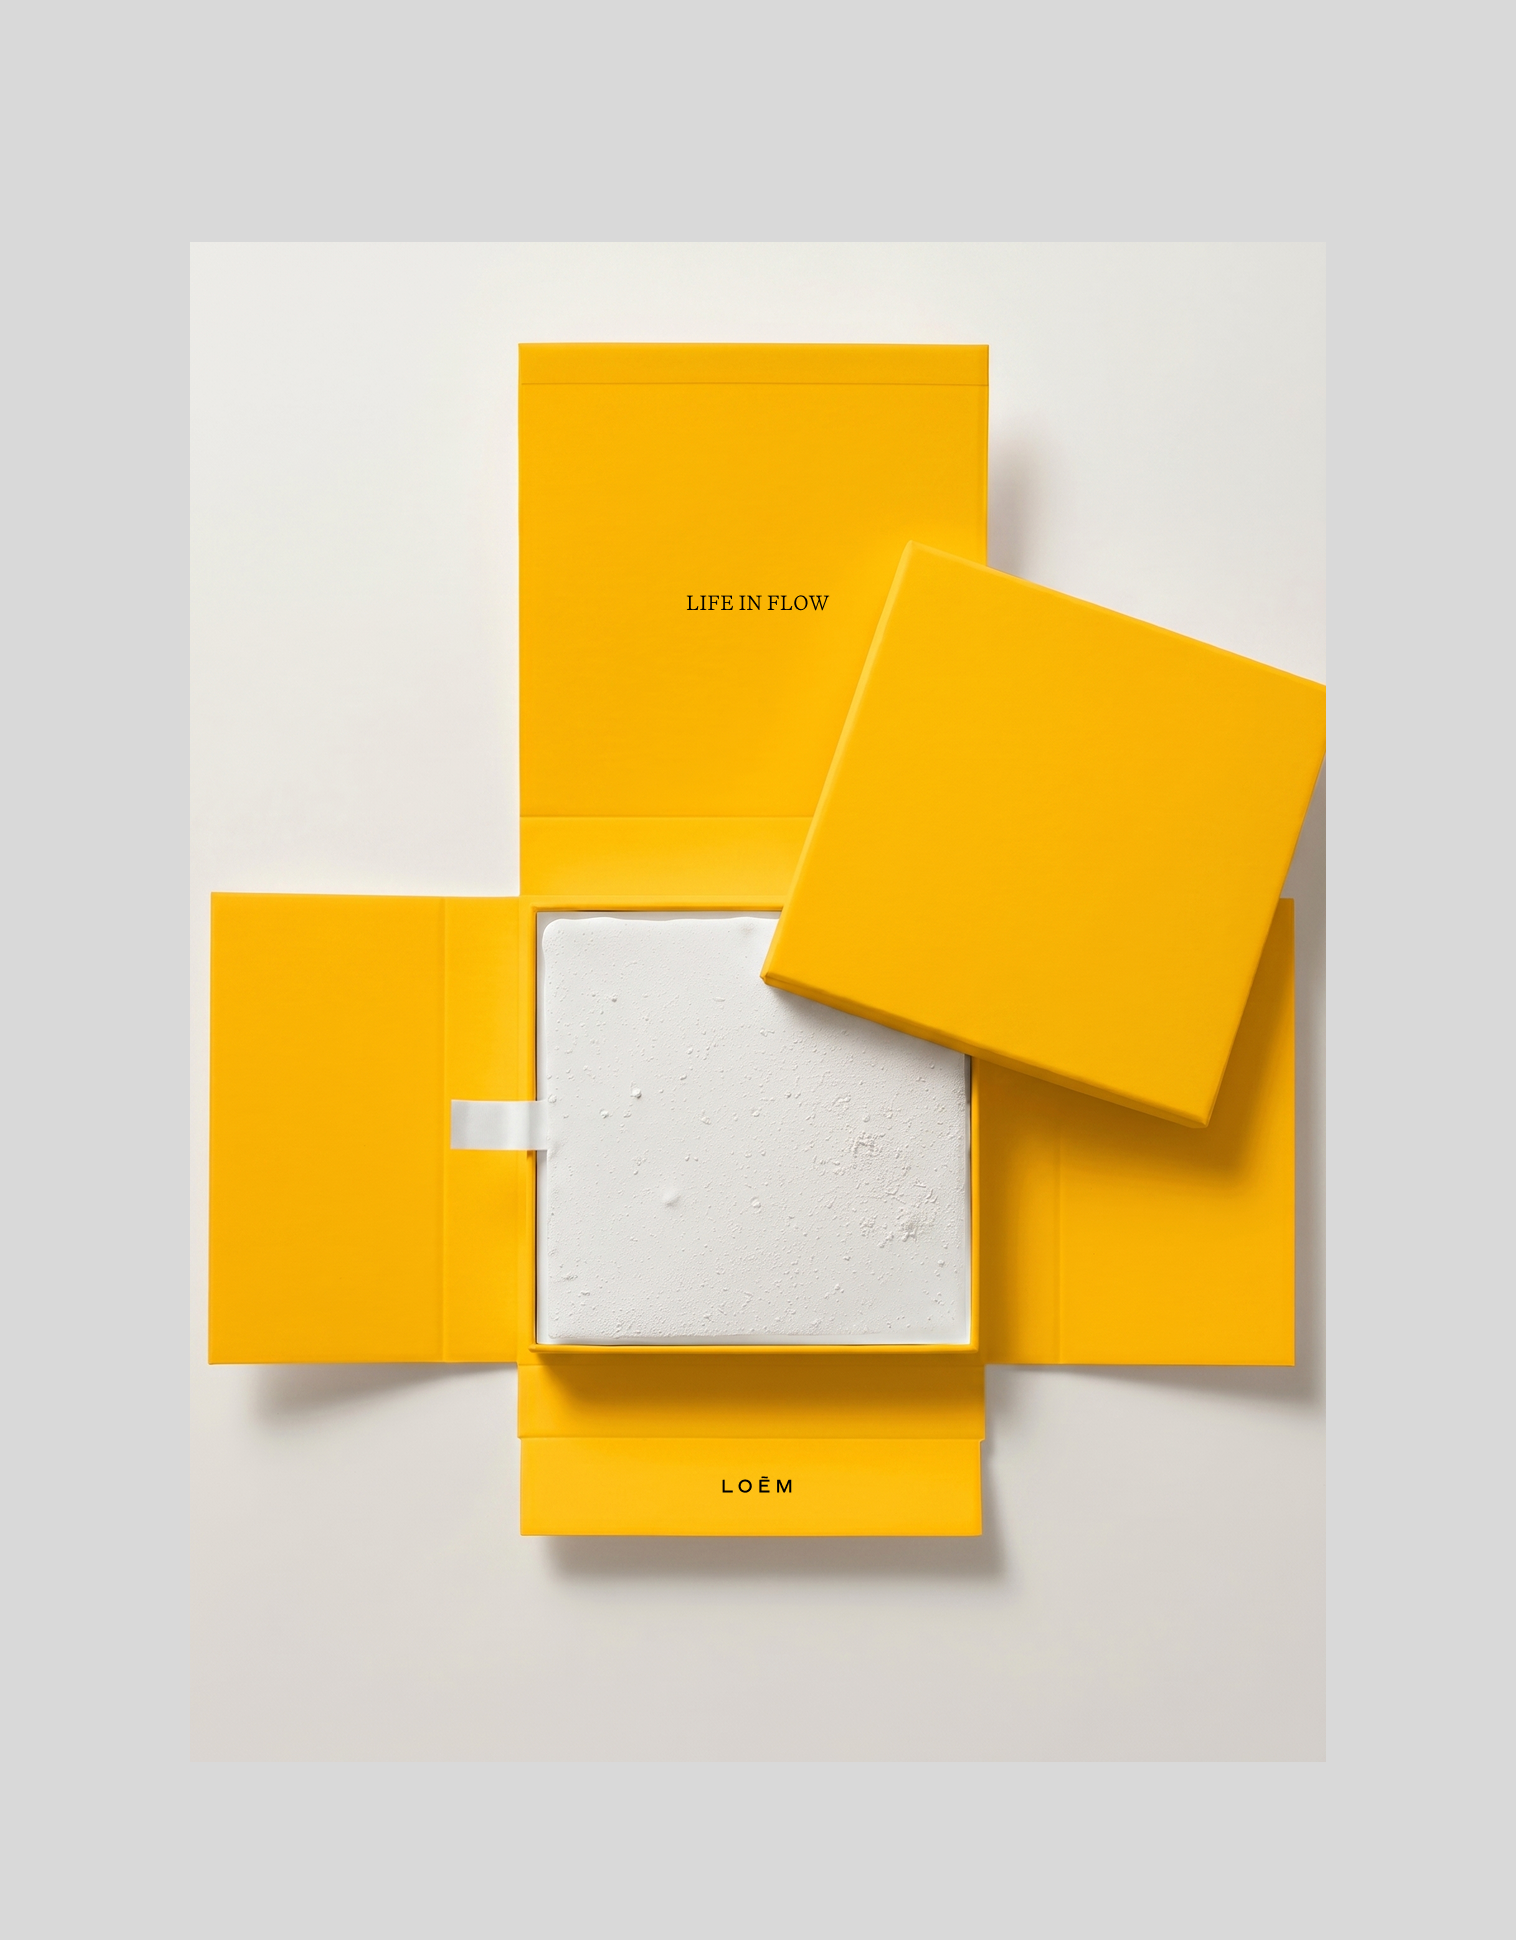
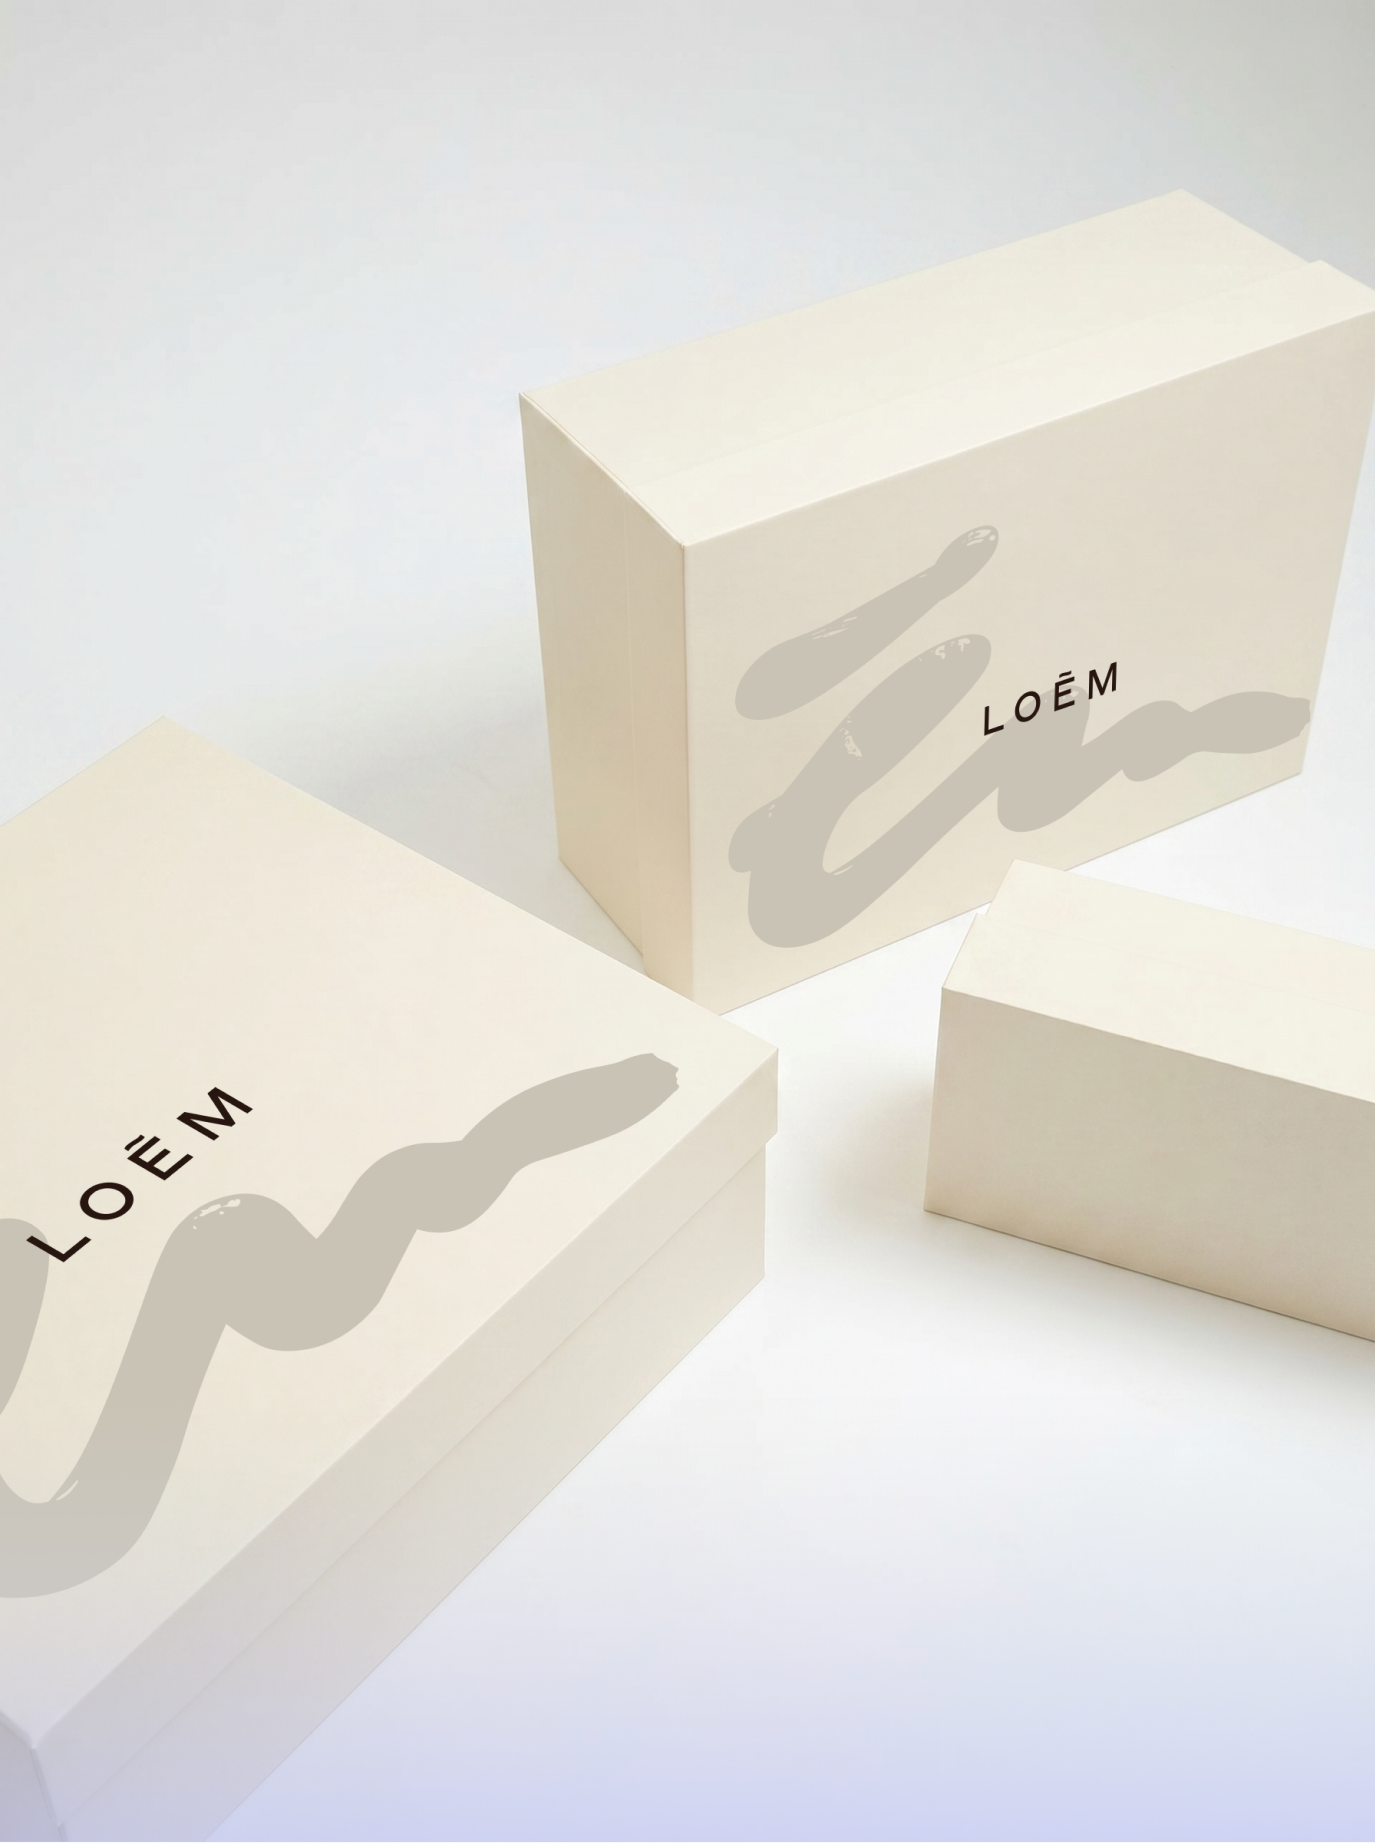
latest

diff --git a/styles/lookbook.css b/styles/lookbook.css
@@ -342,12 +342,11 @@ body.page-out {
 
 .lookbook-section--wordmark {
   padding: clamp(150px, 18vh, 260px) clamp(24px, 4vw, 72px)
-    clamp(84px, 10vh, 150px);
+    clamp(24px, 4vh, 60px);
 }
 
 .lookbook-section--product-icons {
-  padding: clamp(28px, 4vh, 72px) clamp(24px, 4vw, 72px)
-    clamp(86px, 11vh, 160px);
+  padding: 0 clamp(24px, 4vw, 72px) clamp(86px, 11vh, 160px);
 }
 
 .lookbook-scene {
@@ -601,11 +600,19 @@ img.wordmark-media-card__center-logo {
   width: 118%;
 }
 
-.wordmark-media-card--box {
-  grid-column: 7 / 12;
+.wordmark-box-pair {
+  grid-column: 6 / 11;
   grid-row: 6;
-  aspect-ratio: 1 / 1.16;
+  position: relative;
+  align-self: end;
   margin-top: clamp(42px, 4.3vw, 82px);
+  top: clamp(-74px, -3.9vw, -40px);
+  width: 100%;
+}
+
+.wordmark-media-card--box {
+  aspect-ratio: 1375 / 1843;
+  width: 80%;
   background: #d5d6da;
 }
 
@@ -623,7 +630,20 @@ img.wordmark-media-card__center-logo {
   grid-column: 2 / 5;
   grid-row: 1;
   align-self: start;
+  margin-top: -56px;
   max-width: min(100%, 390px);
+  top: 7px;
+}
+
+.product-icons-media--box-secondary {
+  grid-column: 9 / 13;
+  grid-row: 1;
+  aspect-ratio: 1850 / 1908;
+  justify-self: end;
+  margin-top: -56px;
+  margin-right: var(--product-icons-edge-offset);
+  top: -88px;
+  width: 99%;
 }
 
 .product-icons-strip {
@@ -647,7 +667,8 @@ img.wordmark-media-card__center-logo {
   background: #eee8df;
 }
 
-.product-icons-media img {
+.product-icons-media img,
+.product-icons-media video {
   display: block;
   width: 100%;
   height: 100%;
@@ -810,10 +831,10 @@ img.wordmark-media-card__center-logo {
 }
 
 .colour-palette {
-  --colour-palette-width: min(1522px, 79.270833vw);
+  --colour-palette-width: min(1463px, 79.270833vw);
   grid-column: 1 / 13;
   grid-row: 10;
-  margin: 0 0 0 calc(50% - 50vw);
+  margin: 0;
   width: var(--colour-palette-width);
 }
 
@@ -824,30 +845,16 @@ img.wordmark-media-card__center-logo {
 }
 
 .colour-notes {
-  --colour-palette-width: min(1522px, 79.270833vw);
+  --colour-palette-width: min(1463px, 79.270833vw);
   --colour-note-box-width: clamp(156px, 10.9375vw, 210px);
-  --colour-section-pad: clamp(24px, 4vw, 72px);
-  --colour-grid-width: min(
-    1660px,
-    calc((100vw - var(--colour-section-pad) - var(--colour-section-pad)) * 0.94)
-  );
-  --colour-grid-left: calc(
-    var(--colour-section-pad) +
-      (
-        (
-            100vw - var(--colour-section-pad) - var(--colour-section-pad) -
-              var(--colour-grid-width)
-          ) * 0.5
-      )
-  );
   grid-column: 1 / 13;
   grid-row: 11;
   width: var(--colour-palette-width);
-  margin-left: calc(50% - 50vw);
+  margin-left: 0;
   display: grid;
   grid-template-columns:
-    calc(790 / 1522 * 100%) calc(402 / 1522 * 100%)
-    calc(284 / 1522 * 100%) calc(46 / 1522 * 100%);
+    calc(731 / 1463 * 100%) calc(402 / 1463 * 100%)
+    calc(286 / 1463 * 100%) calc(44 / 1463 * 100%);
   padding: clamp(12px, 1.4vw, 24px) 0 clamp(92px, 10vw, 170px);
 }
 
@@ -862,8 +869,7 @@ img.wordmark-media-card__center-logo {
 .colour-note--cotton {
   grid-column: 1;
   grid-row: 1;
-  padding-left: var(--colour-grid-left);
-  width: calc(var(--colour-grid-left) + var(--colour-note-box-width));
+  width: var(--colour-note-box-width);
   max-width: none;
 }
 
@@ -929,6 +935,8 @@ img.wordmark-media-card__center-logo {
 
 .secondary-colour__media--blue {
   grid-column: 4;
+  margin-left: clamp(28px, 3.8vw, 74px);
+  width: calc(100% + clamp(28px, 3.8vw, 74px));
 }
 
 .secondary-colour__video,
@@ -940,7 +948,7 @@ img.wordmark-media-card__center-logo {
 }
 
 .secondary-colour__palette {
-  grid-column: 1 / 5;
+  grid-column: 2 / 4;
   grid-row: 2;
   margin: 0;
 }
@@ -1106,8 +1114,9 @@ img.wordmark-media-card__center-logo {
   .motif-copy,
   .motif-mark,
   .wordmark-media-card--phone,
-  .wordmark-media-card--box,
+  .wordmark-box-pair,
   .product-icons-copy,
+  .product-icons-media--box-secondary,
   .product-icons-strip,
   .product-icons-media--bag,
   .product-icons-media--iphone,
@@ -1183,8 +1192,9 @@ img.wordmark-media-card__center-logo {
     width: 84%;
   }
 
-  .wordmark-media-card--box {
+  .wordmark-box-pair {
     order: 10;
+    top: 0;
     margin-top: 54px;
     margin-left: -22px;
   }
@@ -1199,24 +1209,35 @@ img.wordmark-media-card__center-logo {
 
   .product-icons-copy {
     order: 1;
+    margin-top: -56px;
     max-width: 100%;
+    top: -8px;
+  }
+
+  .product-icons-media--box-secondary {
+    order: 2;
+    margin-left: auto;
+    margin-top: -56px;
+    margin-right: -22px;
+    top: -88px;
+    width: 76%;
   }
 
   .product-icons-strip {
-    order: 2;
+    order: 3;
     margin-left: -30px;
     width: 100%;
   }
 
   .product-icons-media--bag {
-    order: 3;
+    order: 4;
     margin-top: -50px;
     margin-left: -22px;
     width: calc(100% + 54px);
   }
 
   .product-icons-media--iphone {
-    order: 4;
+    order: 5;
     margin-left: auto;
     margin-top: 80px;
     margin-right: -22px;
@@ -1224,7 +1245,7 @@ img.wordmark-media-card__center-logo {
   }
 
   .product-icons-media--disc {
-    order: 5;
+    order: 6;
     margin-top: 32px;
     width: 58%;
   }
@@ -1339,8 +1360,14 @@ img.wordmark-media-card__center-logo {
     margin-top: 18px;
   }
 
+  .secondary-colour__media--blue {
+    margin-left: auto;
+    width: 92%;
+  }
+
   .secondary-colour__palette {
     margin-top: 0;
+    width: 72%;
   }
 
   .secondary-colour__use {

diff --git a/lookbook.html b/lookbook.html
@@ -9,7 +9,6 @@
   </head>
 
   <body class="lookbook-page">
-    <div id="lightCursor" class="light-cursor" aria-hidden="true"></div>
     <div class="top-fade-mask" aria-hidden="true"></div>
 
     <header class="top-nav">
@@ -211,17 +210,19 @@
             />
           </figure>
 
-          <figure
-            class="wordmark-media-card wordmark-media-card--box lookbook-reveal lookbook-reveal--media"
+          <div
+            class="wordmark-box-pair lookbook-reveal lookbook-reveal--media"
             data-reveal="media"
             data-reveal-start="0.51"
             data-parallax="0.27"
           >
-            <img
-              src="/assets/images/lookbook/box_yellow.png"
-              alt="LOEM yellow box packaging visual."
-            />
-          </figure>
+            <figure class="wordmark-media-card wordmark-media-card--box">
+              <img
+                src="/assets/images/lookbook/box_yellow.png"
+                alt="LOEM yellow box packaging visual."
+              />
+            </figure>
+          </div>
         </div>
       </section>
 
@@ -244,10 +245,25 @@
               character. Always use them small, with lots of whitespace for a
               refined look.
             </p>
-            <a href="#" aria-label="Download Product line icons artwork pack">
+            <a
+              href="/assets/downloads/Loem%20Artwork%20Pack.zip"
+              download
+              aria-label="Download Product line icons artwork pack"
+            >
               Download Artwork Pack
             </a>
           </article>
+
+          <figure
+            class="product-icons-media product-icons-media--box-secondary lookbook-reveal lookbook-reveal--text"
+            data-reveal="text"
+            data-reveal-start="0.06"
+          >
+            <img
+              src="/assets/images/lookbook/box_yellow_2.png"
+              alt="LOEM second yellow box packaging visual."
+            />
+          </figure>
 
           <figure
             class="product-icons-strip lookbook-reveal lookbook-reveal--media"
@@ -279,10 +295,20 @@
             data-reveal-start="0.32"
             data-parallax="0.22"
           >
-            <img
-              src="/assets/images/lookbook/iphone_icons.png"
-              alt="LOEM iPhone product icons visual."
-            />
+            <video
+              class="product-icons-media__video js-autoplay-video"
+              preload="auto"
+              playsinline
+              webkit-playsinline
+              muted
+              autoplay
+              loop
+            >
+              <source
+                src="/assets/videos/brand-in-action/loem-phone-4k.mp4"
+                type="video/mp4"
+              />
+            </video>
           </figure>
 
           <figure
@@ -291,10 +317,20 @@
             data-reveal-start="0.42"
             data-parallax="0.16"
           >
-            <img
-              src="/assets/images/lookbook/disc.png"
-              alt="LOEM objects disc icon visual."
-            />
+            <video
+              class="product-icons-media__video js-autoplay-video"
+              preload="auto"
+              playsinline
+              webkit-playsinline
+              muted
+              autoplay
+              loop
+            >
+              <source
+                src="/assets/videos/brand-in-action/loēm-objects.mp4"
+                type="video/mp4"
+              />
+            </video>
           </figure>
 
           <article

diff --git a/scripts/landing/config.js b/scripts/landing/config.js
@@ -10,14 +10,14 @@ export const SECTION_TITLES = [
 export const BASE_IMAGE_PATHS = [
     "/assets/images/landing/cards/Frame 2090055623.jpg",
     "/assets/images/landing/cards/Frame 2090055627.jpg",
-    "/assets/images/landing/cards/Frame 2090055634.jpg",
+    "/assets/images/landing/cards/Frame 2090055634.png",
     "/assets/images/landing/cards/Frame 2090055643.jpg",
     "/assets/images/landing/cards/Frame 2090055661.jpg",
     "/assets/images/landing/cards/Screenshot 2026-04-21 at 10.39.14 2.jpg",
     "/assets/images/landing/cards/e43fda12-4792-434d-8942-bc44fea8206f 2.jpg",
     "/assets/images/landing/cards/loreworld_1768413242_3810047991433109308_65923060496 9.jpg",
     "/assets/images/landing/cards/marvin-leuvrey_stills_025 4.jpg",
-    "/assets/images/landing/cards/samuelpasquier_1691943848_3168577116093411413_9420069 5.jpg",
+    "/assets/images/landing/cards/12.png",
 ];
 
 export const CENTER_VIDEO_PATH = "/assets/videos/landing/Loem-Black.mp4";

diff --git a/scripts/lookbook.js b/scripts/lookbook.js
@@ -109,7 +109,7 @@ function updateParallax(vh) {
     const isGuide = item.classList.contains("wordmark-guide");
     const isParfum = item.classList.contains("wordmark-media-card--parfum");
     const isPhone = item.classList.contains("wordmark-media-card--phone");
-    const isBox = item.classList.contains("wordmark-media-card--box");
+    const isBox = item.classList.contains("wordmark-box-pair");
     const isMotifMark = item.classList.contains("motif-mark");
     const isProductIconsMedia =
       item.classList.contains("product-icons-media") ||